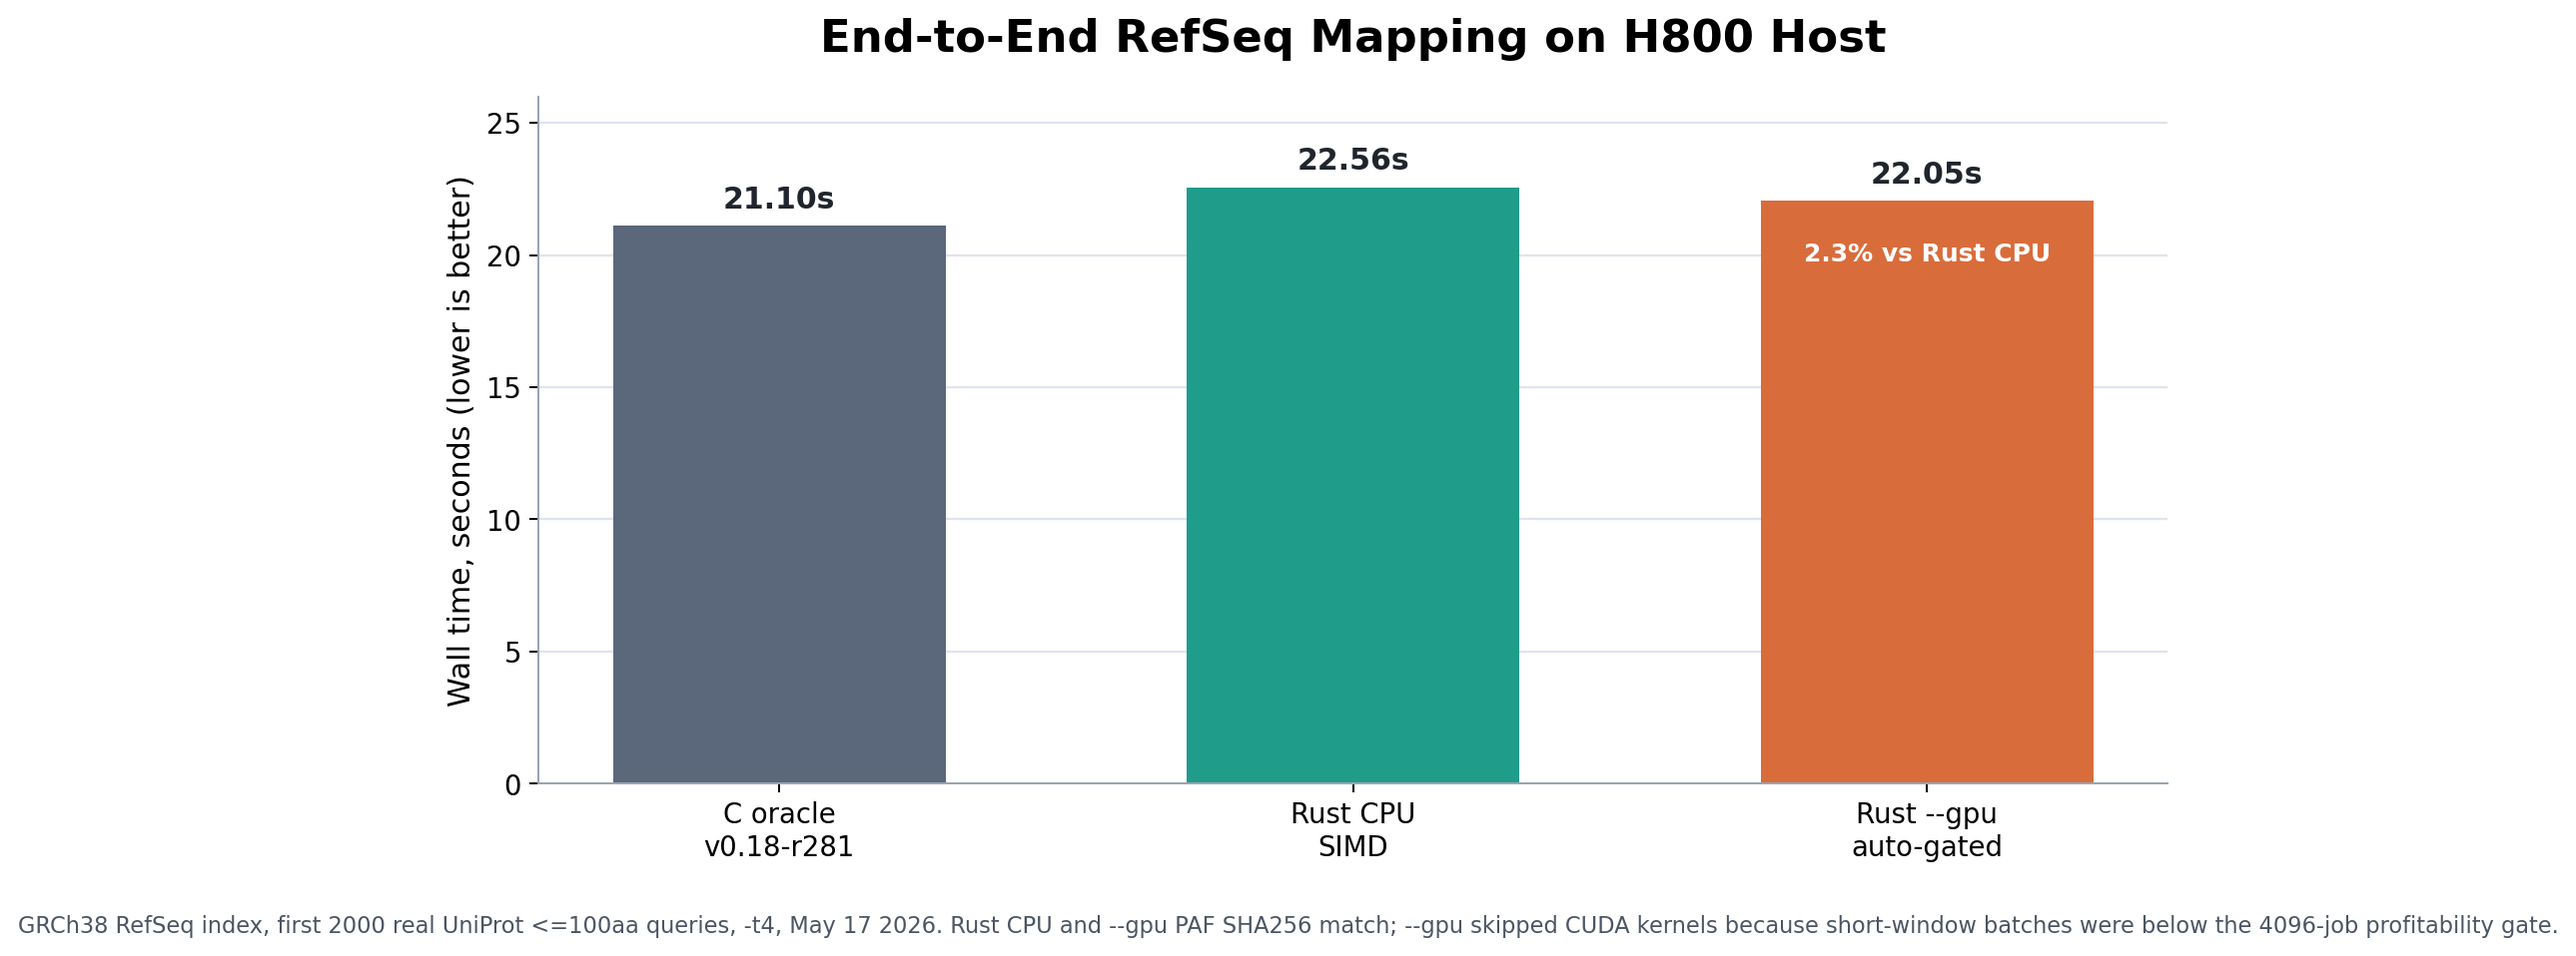
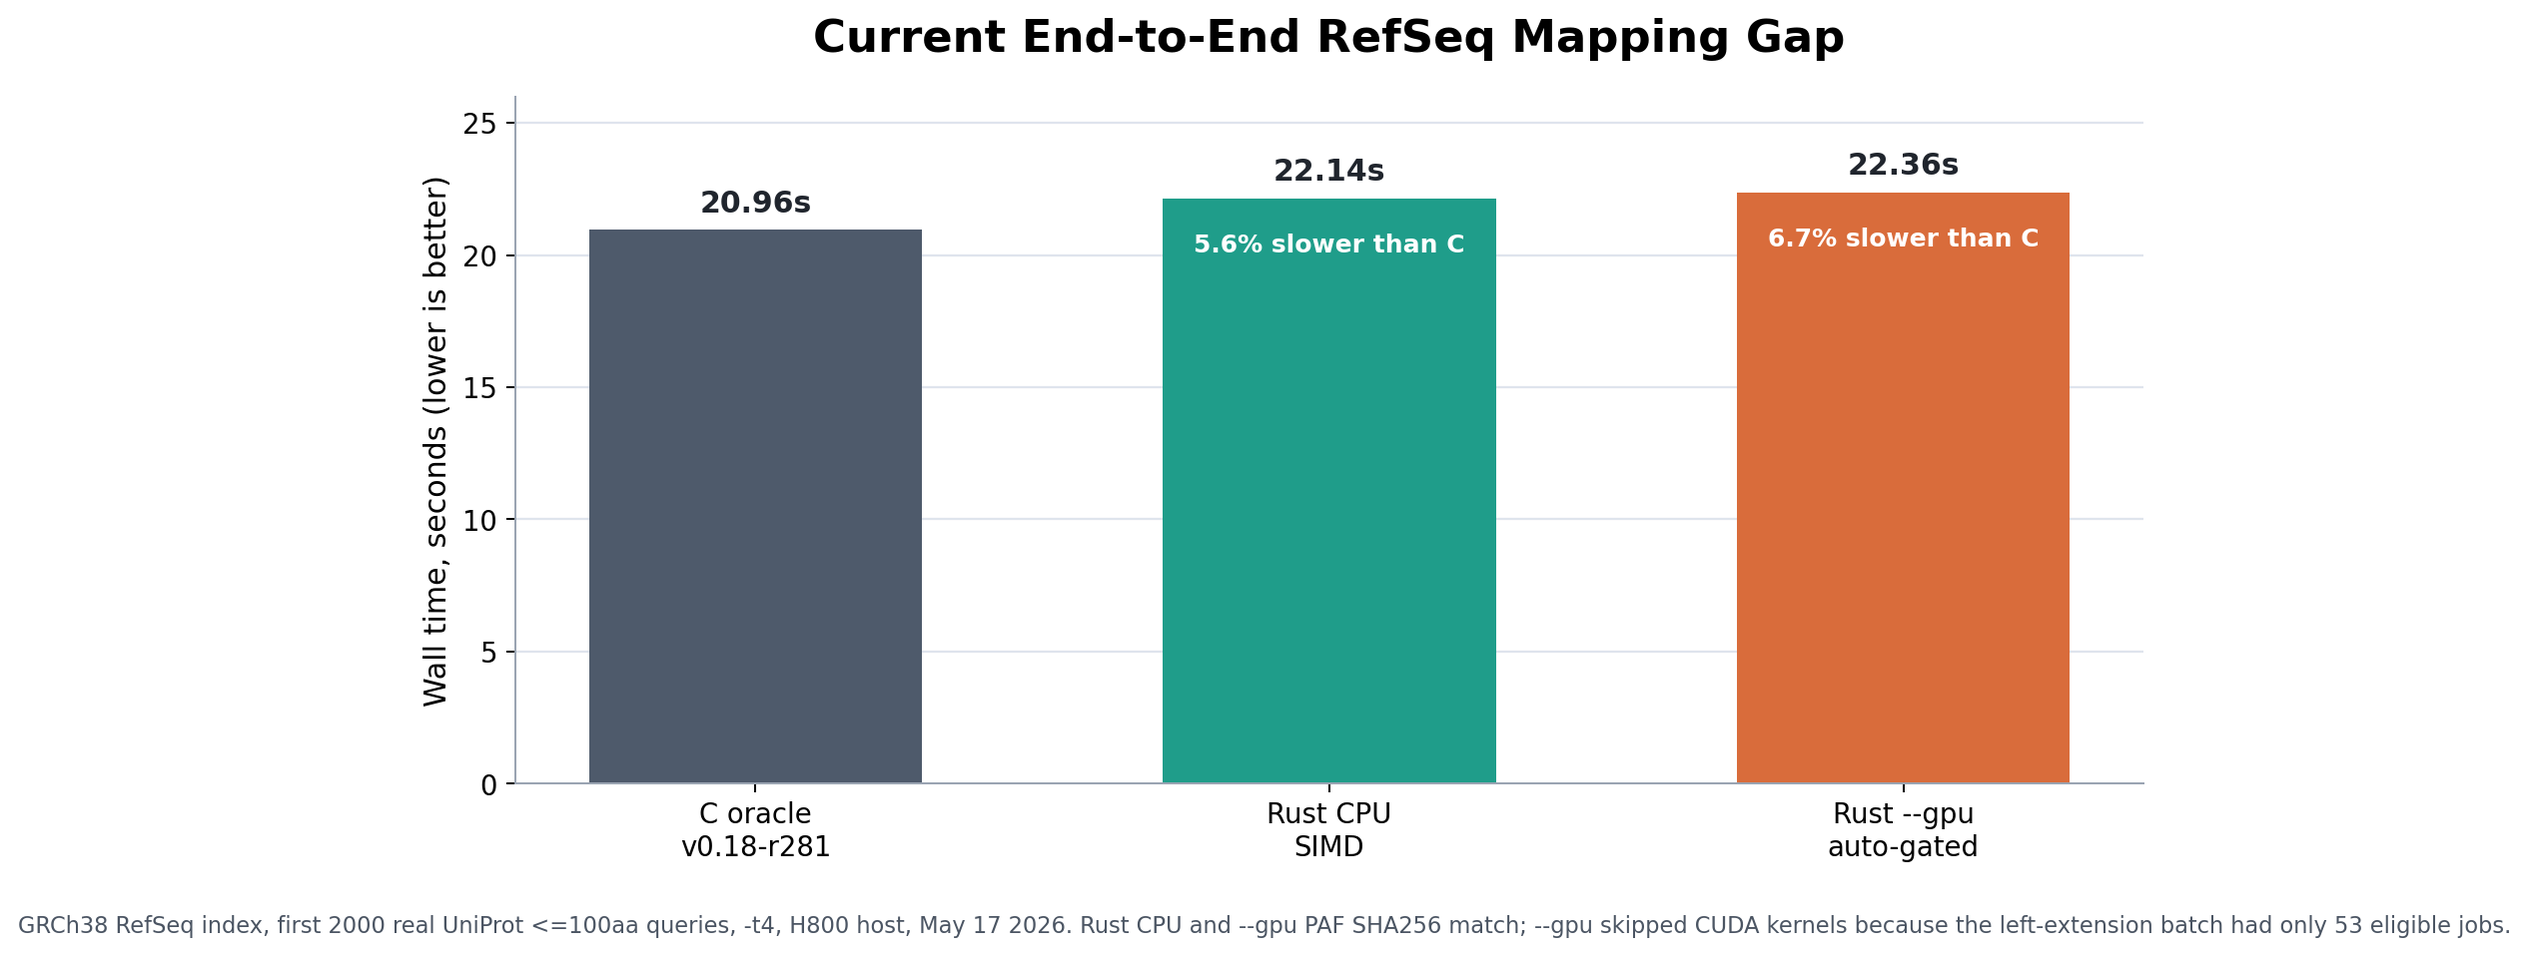
Clarify H800 gap and tighten GPU fallback

diff --git a/src/format.rs b/src/format.rs
@@ -111,6 +111,21 @@ fn push_nt_triplet(out: &mut String, nt: &[u8], offset: usize) {
     out.push(NT_I2C[nt[offset + 2] as usize] as char);
 }
 
+#[inline]
+fn push_usize(out: &mut String, mut value: usize) {
+    let mut buf = [0u8; 20];
+    let mut idx = buf.len();
+    loop {
+        idx -= 1;
+        buf[idx] = b'0' + (value % 10) as u8;
+        value /= 10;
+        if value == 0 {
+            break;
+        }
+    }
+    out.push_str(std::str::from_utf8(&buf[idx..]).expect("decimal digits"));
+}
+
 fn append_cs(out: &mut String, tables: &Tables, nt: &[u8], aa: &[u8], cigar: &[u32]) {
     out.push_str("cs:Z:");
     let mut nt_offset = 0usize;
@@ -132,7 +147,7 @@ fn append_cs(out: &mut String, tables: &Tables, nt: &[u8], aa: &[u8], cigar: &[u
                     if nt_aa != aa_aa {
                         if match_run_len > 0 {
                             out.push(':');
-                            let _ = write!(out, "{match_run_len}");
+                            push_usize(out, match_run_len);
                         }
                         out.push('*');
                         push_lower_nts(out, codon_nt);
@@ -144,7 +159,7 @@ fn append_cs(out: &mut String, tables: &Tables, nt: &[u8], aa: &[u8], cigar: &[u
                 }
                 if match_run_len > 0 {
                     out.push(':');
-                    let _ = write!(out, "{match_run_len}");
+                    push_usize(out, match_run_len);
                 }
                 nt_offset += len3;
                 aa_offset += len;
@@ -182,7 +197,7 @@ fn append_cs(out: &mut String, tables: &Tables, nt: &[u8], aa: &[u8], cigar: &[u
                 out.push('~');
                 out.push(lower_nt(nt[nt_offset + lshift]));
                 out.push(lower_nt(nt[nt_offset + lshift + 1]));
-                let _ = write!(out, "{}", len - (lshift + rshift));
+                push_usize(out, len - (lshift + rshift));
                 out.push(lower_nt(nt[nt_offset + len - rshift - 2]));
                 out.push(lower_nt(nt[nt_offset + len - rshift - 1]));
                 if rshift > 0 {
@@ -200,7 +215,7 @@ fn append_cs(out: &mut String, tables: &Tables, nt: &[u8], aa: &[u8], cigar: &[u
 }
 
 pub(crate) fn build_cs(tables: &Tables, nt: &[u8], aa: &[u8], cigar: &[u32]) -> String {
-    let mut out = String::new();
+    let mut out = String::with_capacity(16 + aa.len() * 4 + cigar.len() * 8);
     append_cs(&mut out, tables, nt, aa, cigar);
     out
 }

diff --git a/src/align.rs b/src/align.rs
@@ -1192,14 +1192,21 @@ pub fn align_batches(
             left_gpu[idx] = Some(left_batch.params.len() - 1);
         }
     }
+    if !left_batch.is_profitable() {
+        if gpu_stats {
+            eprintln!("[gpu] left_ext jobs={} kernel=skip", left_batch.len());
+        }
+        works
+            .par_iter_mut()
+            .for_each(|work| finish_work_cpu(opt, tables, &groups, work));
+        return collect_finished_works(works, out);
+    }
     let left_start = std::time::Instant::now();
-    let left_run = left_batch.is_profitable();
     let left_results = left_batch.run(&left_opt);
     if gpu_stats {
         eprintln!(
-            "[gpu] left_ext jobs={} kernel={} time={:.3}s",
+            "[gpu] left_ext jobs={} kernel=run time={:.3}s",
             left_batch.len(),
-            if left_run { "run" } else { "skip" },
             left_start.elapsed().as_secs_f64()
         );
     }

diff --git a/README.md b/README.md
@@ -2,6 +2,9 @@
 
 ![End-to-end performance gap between Rust and the C oracle on real RefSeq data](docs/performance-gap.png)
 
+Current H800 end-to-end result: Rust does not yet beat the C oracle on the
+2000-query RefSeq map. This figure tracks the remaining gap, not a claimed win.
+
 > [!NOTE]
 > **AI Attribution:** The git history shows "Claude" in commit trailers, but this
 > naming is an artifact of how [Claude Code](https://github.com/anthropics/claude-code)
@@ -66,25 +69,31 @@ Dataset:
 - Query: first 2000 records from
   `/autodl-fs/data/refseq/uniprot_le100aa/GCF_000001405.40_Homo_sapiens_tax9606_uniprotkb_len001-100.fasta.gz`
 - Threads: `-t4`
-- CUDA build: `CUDA_HOME=/usr/local/cuda-12.8 cargo build --release --features cuda`
+- CUDA build:
+  `RUSTFLAGS="-C target-cpu=native" CUDA_HOME=/usr/local/cuda-12.8 cargo build --release --features cuda`
 - The H800 was shared during the final run; `nvidia-smi` showed a Python process
   using about 6.4 GB VRAM and 46-94% GPU util, so CUDA timings are conservative.
 
-| End-to-end map (`-t4`) | Wall time | vs Rust CPU | Notes |
+| End-to-end map (`-t4`) | Wall time | vs C oracle | Notes |
 |------------------------|----------:|------------:|-------|
-| C oracle v0.18-r281 | **21.10s** | 6.5% lower wall | Correctness oracle, not the Rust speed baseline |
-| Rust CPU SIMD | 22.56s | 1.0x | Latest Rust CPU baseline |
-| Rust `--gpu` auto-gated | 22.05s | **2.3% faster** | Rust CPU and `--gpu` PAF SHA256 match |
+| C oracle v0.18-r281 | **20.96s** | 1.0x | Correctness oracle; currently still faster for this map workload |
+| Rust CPU SIMD | 22.14s | 5.6% slower | Latest Rust CPU baseline after lightweight `cs` formatting cleanup |
+| Rust `--gpu` auto-gated | 22.36s | 6.7% slower | Rust CPU and `--gpu` PAF SHA256 match |
 
 `--gpu` is part of the production mapping path, but it is deliberately gated.
 It batches eligible extension-DP jobs across queries and sends them to CUDA only
 when the shape is profitable (`aa <= 128`, `nt <= 8192`, batch >=4096). On the
-2000-query RefSeq run, the mapper found only 53 left-extension and 543
-right-extension CUDA candidates, so both CUDA kernels were skipped and CPU SIMD
-handled the DP. A looser experimental gate (`nt <= 16384`) did run CUDA
+2000-query RefSeq run, the mapper found only 53 left-extension CUDA candidates,
+so the GPU path now exits early and CPU SIMD handles the alignment. A looser
+experimental gate (`nt <= 16384`) did run CUDA
 extension kernels (5182 left and 5233 right jobs) but slowed the same workload
 to 25.17s, despite byte-identical Rust PAF output. The current baseline
 therefore keeps the stricter gate.
+
+The chart is intentionally not a victory chart: on this larger real mapping
+case the Rust port still trails the C oracle. The gap is in alignment/traceback;
+candidate mapping alone remains faster in Rust (`-A -t4`: Rust 14.19s vs C
+15.23s on the same 2000-query dataset).
 
 ### x86_64 AutoDL (Xeon Platinum 8458P, real RefSeq, 2026-05-17)
 

diff --git a/docs/gpu-optimization-log.md b/docs/gpu-optimization-log.md
@@ -538,13 +538,12 @@ src/gpu_bench.rs   — 综合 benchmark (CPU scalar + SIMD + Metal + wgpu + CUDA
 最终 gate：
 
 ```
-C oracle:             21.10s
-Rust CPU SIMD:        22.56s
-Rust --gpu gated:     22.05s
+C oracle:             20.96s
+Rust CPU SIMD:        22.14s
+Rust --gpu gated:     22.36s
 Rust CPU/--gpu PAF:   SHA256 identical
 
-[gpu] left_ext jobs=53  kernel=skip
-[gpu] right_ext jobs=543 kernel=skip
+[gpu] left_ext jobs=53 kernel=skip
 ```
 
 放宽 gate 的反例：
